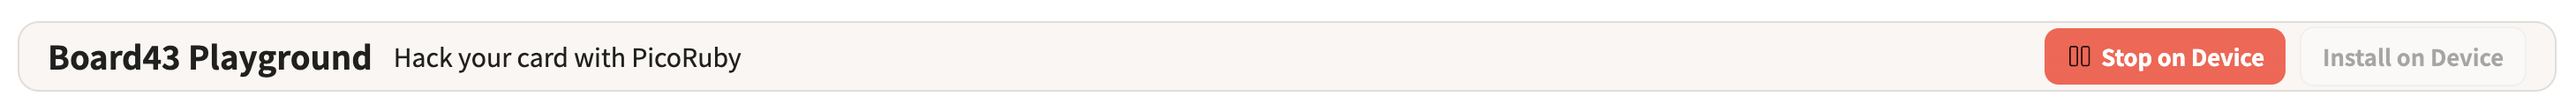
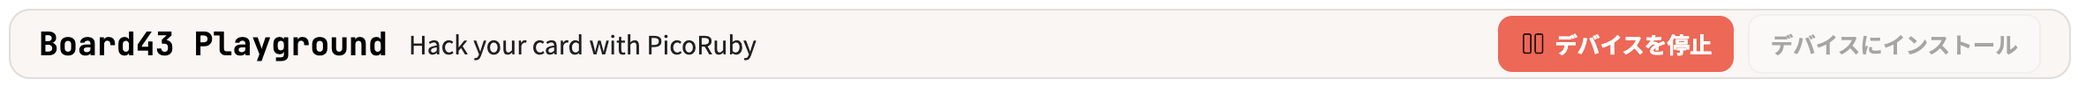
docs: add Japanese screenshots

diff --git a/workshop/README_en.md b/workshop/README_en.md
@@ -32,16 +32,15 @@ The setup screen will appear.
 
 1. Leave the Baud Rate at **115200** and press the **Connect** button
 
-    <img src="images/1_connect_1.png" width="600">
+   <img src="images/1_connect_1_en.png" width="600">
 
 2. Select the serial port in the browser dialog (choose the one labeled "PicoRuby R2P2")
 
-    <img src="images/1_connect_2.png" width="600">
+   <img src="images/1_connect_2.png" width="600">
 
 The screen will switch to show a code editor on the left, an LED simulator on the upper right, and a console at the bottom.
 
-<img src="images/1_playground.png" width="1000">
-
+<img src="images/1_playground_en.png" width="1000">
 
 ---
 
@@ -61,14 +60,13 @@ led.show              # Send the buffer to the LEDs
 
 Press the **Run on Device** button at the top of the screen.
 
-<img src="images/2_upload_run.png" width="1000">
+<img src="images/2_upload_run_en.png" width="1000">
 
 If the entire LED matrix lights up red, it's working.
 
 Press **Stop on Device** before running the next code.
 
-<img src="images/2_stop.png" width="1000">
-
+<img src="images/2_stop_en.png" width="1000">
 
 ### 2-2. Change the Color of Specific LEDs
 
@@ -133,32 +131,31 @@ This is the main part. Use the **LED Simulator** in the upper right to create pi
 
 1. Press the **Upload image** button in the editor toolbar
 
-    <img src="images/4_upload_image.png" width="600">
+   <img src="images/4_upload_image_en.png" width="600">
 
 2. Select an image file
 3. It will be automatically converted to 16×16 and displayed in the simulator
-
 
 ### 4-2. Add Animation
 
 Choose a display mode from the simulator toolbar.
 
-<img src="images/4_animation.png" width="600">
+<img src="images/4_animation_en.png" width="600">
 
-| Option | Motion |
-| --- | --- |
-| Static | Static display |
-| ← | Scroll left |
-| → | Scroll right |
-| ↑ | Scroll up |
-| ↓ | Scroll down |
-| Fade | Fade in and out |
+| Option | Motion          |
+| ------ | --------------- |
+| Static | Static display  |
+| ←      | Scroll left     |
+| →      | Scroll right    |
+| ↑      | Scroll up       |
+| ↓      | Scroll down     |
+| Fade   | Fade in and out |
 
 ### 4-3. Preview in the Simulator
 
 Press the **Preview** button in the editor to auto-generate code and preview the animation in the simulator.
 
-<img src="images/4_preview.png" width="600">
+<img src="images/4_preview_en.png" width="600">
 
 ### 4-4. Transfer to Board43
 
@@ -207,10 +204,10 @@ https://github.com/smartbank-inc/Board43/workshop/examples
 
 **Editor Toolbar**
 
-| Button | Description |
-| --- | --- |
-| New File | Create a new file |
-| Open | Open a file saved on Board43 |
+| Button   | Description                      |
+| -------- | -------------------------------- |
+| New File | Create a new file                |
+| Open     | Open a file saved on Board43     |
 | Download | Save the current file to your PC |
 
 **Console**
